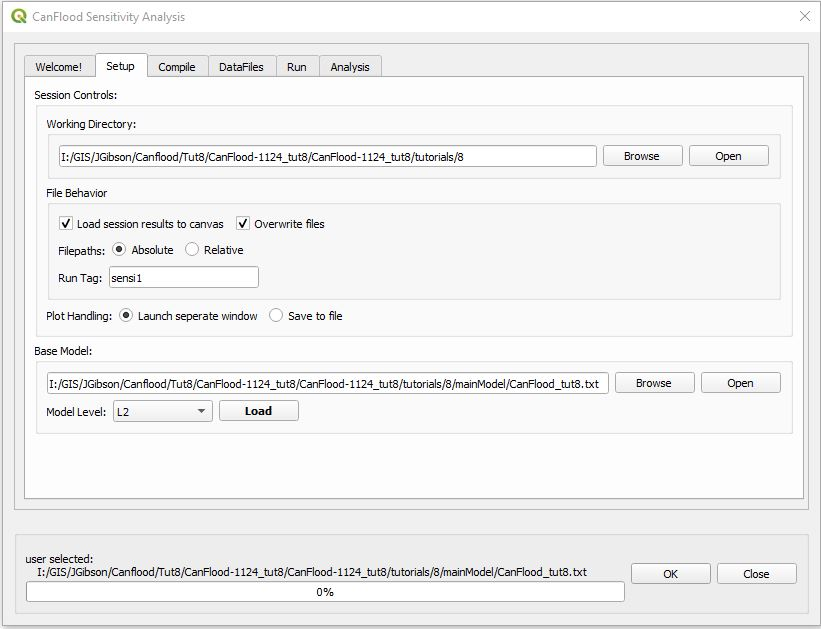
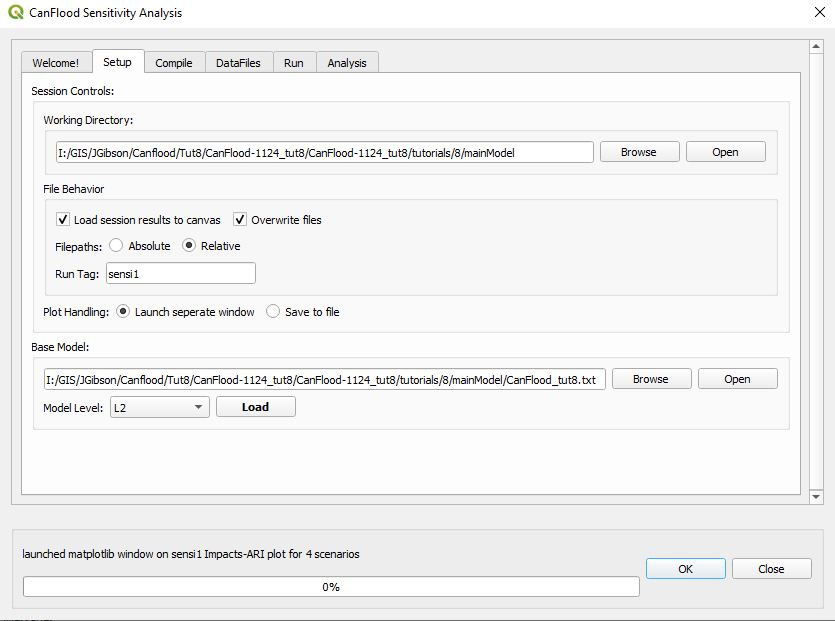
update image and add additional text

diff --git a/docs/source/tutorials.rst b/docs/source/tutorials.rst
@@ -972,7 +972,7 @@ This tutorial demonstrates *Sensitivity Analysis* workflow (:ref:`Section5.4.5 <
 6.13.1. Setup the Analysis
 ==========================
 
-Launch the *Sensitivity Analysis* |targetImage| dialog from the Plugins>CanFlood menu. Navigate to the *Setup* menu, select your working directory, then specify your main model control file and 'Model Level' = 'L2' as shown below:
+Launch the *Sensitivity Analysis* |targetImage| dialog from the Plugins>CanFlood menu. Navigate to the *Setup* menu, select your working directory, set the filepaths to 'relative' then specify your main model control file and 'Model Level' = 'L2' as shown below:
 
 .. image:: /_static/tutorials_6_13_img_1.JPG
 
@@ -996,7 +996,7 @@ For the first perturbation, simply **change the rtail value on 'cand01' to 0.1**
 
 To allow us to differentiate the plots we generate in the final step, **click Randomize Colors**. 
 
-Finally, **click Compile Candidates**.
+Finally, **click Compile Candidates**.  You will now see four new folders, one for each candidate model, in your working directory.
 
 
 6.13.3. Manipulate Datafiles
